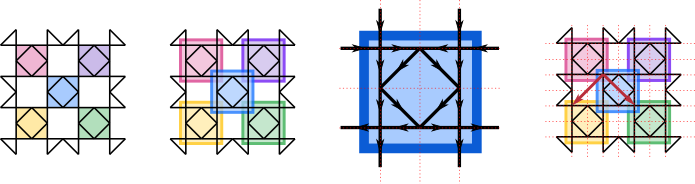
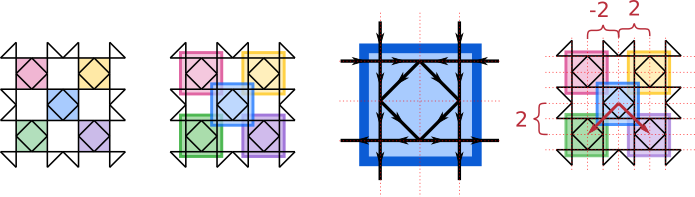
Update documentation

diff --git a/docs/help/Advanced.md b/docs/help/Advanced.md
@@ -1,114 +1,107 @@
 ---
 layout: default
-title: Designing prototypes
+title: New pattern tutorial
 ---
 
-Designing prototypes
+Creating a pattern definition
 ==============
 
 [lace ground page]: /GroundForge/tiles?tile=5831,-4-7&patchWidth=9&patchHeight=9&shiftColsSE=4&shiftRowsSE=2&shiftColsSW=0&shiftRowsSW=2&
 
-+ [Prototype Tutorial](#prototype-tutorial)
++ [New Pattern Tutorial](#new-pattern-tutorial)
    + [Define the base pattern](#define-the-base-pattern)
    + [Glue copies together](#glue-copies-together)
    + [Initialize stitches](#initialize-stitches)
 + [Footside Tutorial](#footside-tutorial)
 + [Thread diagram as pair diagram](#thread-diagram-as-pair-diagram)
 
-On each [lace ground page], below the prototype, pair and thread diagrams, you will find an area labelled _Forms for advanced users_.  These forms are the controls for creating and editing the prototype.
-You can use these controls to modify an existing pattern (add a headside or a footside, for example) or to create a new pattern.
+On each [lace ground page], below the pair and thread diagrams, you will find an area labelled __Edit pattern__.  You can use the controls in this area to modify an existing pattern (add a headside or a footside, for example) or to create a new pattern.
 
-Prototype Tutorial
+New Pattern Tutorial
 ------------------
-We will use Rose ground as an example and define a prototype for it from scratch.
-There are many ways to draw the pair diagram for Rose ground.
-One way to think of it is as a checkerboard with a diamond inside each of the black squares.
+We will use Rose ground as an example and define a pattern for it from scratch.  There are many ways to draw the pair diagram for Rose ground.  One way to think of it is as a checkerboard with a diamond inside each of the black squares.
 
 ### Define the base pattern
-A lace ground consists of a small pattern that is repeated, like a wallpaper or printed fabric pattern, to cover the area you need to fill.
-This small base pattern is called a __repeat__.  The form labelled _Define a repeat_ contains three text boxes.  
-The left and right boxes control the headside and footside.  We will discuss them later.  The middle box controls the repeated pattern.
+A lace ground consists of a small pattern that is repeated, like a wallpaper or printed fabric pattern, to cover the area you need to fill.  This small pattern is called a __base tile__.  The area labelled _Pattern definition_ contains three text boxes.  The left and right boxes define the headside and footside.  We will discuss them later.  The middle box defines the base tile.
 
-From the large pattern, we need to identify the base pattern.  There are many ways to do this and over the course of this tutorial, we will show a few of them.
-In the image below, each rectangle highlights one repeat of the Rose pattern.  The repeating rectangles are arranged like vertical bricks.
-For convenience, on the far right of the image we have moved the rectangles slightly so that it is easy to see all the intersections of pairs within a rectangle (no intersection lies on the edge of a rectangle).
+The first step is to look at a ground and identify the base tile.  There are many ways to do this and over the course of this tutorial, we will show a few of them.
 
-![](images/repeat.png)
+####Simple arrangement
 
-Next we will map the pairs in the lace ground to a grid.  Within one repeat rectangle, the intersections lie on two columns and four rows as shown by the red dashed lines in the figure below.  The red dashed lines form a grid.
+The easiest approach is to start with a printed copy of the pattern. Pick a spot on the pattern and look in the horizontal direction until you find an exact copy of this spot.  Draw a line. Now return to the original spot and look straight down until you find another exact copy of this spot.  Draw a line and complete the rectangle created by these two lines.
 
-![](images/rose-grid-symbols.png)
+![](images/rose-simple.png)
 
-For each position in the grid, we assign a symbol.  The symbol specifies the angle and direction of the two pairs that are pointing at that row/column position.
-The meaning of each symbol is shown in the "Cheat sheet" on the right of the "Define a repeat" area.  For example, in row 1/column 1 the green arrows correspond to the symbol '4'.  Similarly, in row 3/column 2, there is no intersection of pairs which we represent by the symbol '-'.
+Each rectangle highlights one repeat of the Rose pattern.  For convenience, on the right of the image above we have moved the rectangles slightly so that it is easy to see all the intersections of pairs within a rectangle (no intersection lies on the edge of a rectangle).
 
-We can now fill in the middle section of the "Define a repeat" area.
+Next we will map the pairs in the lace ground to a grid.  Draw a grid on top of the base tile on you paper copy as shown by the red dashed lines in the middle image above.  Within one repeat rectangle, the intersections lie on four columns and four rows.
 
-![](images/rose_vertical_brick_definition.png)
+For each position in the grid, we assign a symbol.  The symbol specifies the angle and direction of the two pairs that are coming __in__ to meet at  that row/column position.  The meaning of each symbol is shown in the _Cheat sheet_ just below the _Pattern definition_ area.  For example, in row 1/column 1 the yellow arrows correspond to the symbol '4' which is a pair coming straight down and a pair coming diagonally down pointing south-west.  Similarly, in row 3/column 2, there is no intersection of pairs which we represent by the symbol '-'.
 
-Notice that the prototype diagram is updated to match the symbols as soon as you click outside of the box.
+We can now fill in the middle section of the _Pattern definition_ area.  Notice that the pattern diagram updates to match the symbols as soon as you click outside of the text box.
+
+![](images/rose-simple-arrange.png)
 
 ### Glue copies together
 
-Now that the base pattern is defined, we need to specify how to connect copies of this pattern together.  This is done in the area labelled _Arrange the repeats_.
+Now we need to specify how to connect the many copies of this pattern together.  This is done in the area labelled _Tile layout_.  For a simple arrangement, just click on the solid blue square in the drawing of a simple tiling as shown in the figure below.  
 
-Consider several meters of a lace edging.  The pattern for the edging is not several meters long.  It is a smaller pattern that you repeat over and over again by sliding the pattern along in one direction.  This gives a long strip.  To make a large rectangular patch from a small pattern, we need to slide the pattern in two directions.
+Notice that this changes the numbers in the green and purple boxes at the bottom of the _Tile layout_ area.  Let's discuss what these numbers mean.  Consider several meters of a lace edging.  The pattern for the edging is not several meters long.  It is a smaller pattern that you repeat over and over again by sliding the pattern along in one direction.  This gives a long strip.  To make a larger rectangular sample from a small pattern, we need to slide the pattern in two directions.
 
 Consider the image below. Red dashed lines show the grid overlaid on the pattern.
 
 ![](images/rose-translation-vectors.png)
 
-To position the blue rectangle on top of the yellow rectangle, we must slide the blue rectangle down 4 rows.
-To position the blue rectangle on top of the red rectangle, we must slide it over 2 columns and down 2 rows.  These translations are entered in the configuration information below.
+To position the blue rectangle on top of the green rectangle, we must slide the blue rectangle down 4 rows.
+To position the blue rectangle on top of the purple rectangle, we must slide it right 4 columns and down 4 rows.  These translations distances are the numbers that appear in the green and purple boxes.  You can also edit these slide moves directly in the number fields.
 
-![](images/rose_vertical_brick_arrange.png) 
+[Final result](/GroundForge/docs/tiles.html?patchWidth=7&patchHeight=7&c1=ctct&a1=ctct&d2=ctct&c2=ctct&b2=ctct&a2=ctct&c3=ctct&a3=ctct&d4=ctct&c4=ctct&b4=ctct&a4=ctct&tile=4-7-,1583,7-4-,8315&footsideStitch=ctctt&tileStitch=ctct&headsideStitch=ctctt&shiftColsSW=0&shiftRowsSW=4&shiftColsSE=4&shiftRowsSE=4)
 
-If you are more comfortable with visual tools, we have also provided images that you can click on.
-For a vertical brick pattern like our Rose ground example, first click on the filled blue brick in the picture of vertical bricks:
+### Creating a smaller base tile
 
-![](images/vertical-bricks.png)
+You might have noticed that in the simple tile arrangement, we actually have two "roses" in the base tile.  We will now look at two ways to reduce the number of intersections in the base tile. 
 
-If the prototype pattern does not immediately align correctly, click on the black arrows above and below the second column of bricks to adjust how the two columns of bricks align.  
-Each click will move the second column up or down by one row relative to the first column.  Look at the prototype diagram to see how the copies move around.
+#### Brick arrangement
+
+For some patterns, as shown for rose ground in the image below, the repeating rectangles can be arranged like vertical bricks.  Notice that each brick contains only one "rose".
+
+![](images/rose_vertical_brick.png) 
+
+For a vertical brick pattern first identify one brick and label each intersection with a symbol from the cheat sheet as we did for the simple tile.  To glue the copies together to make a larger pattern, first click on the filled blue brick in the picture of vertical bricks: ![](images/vertical-bricks.png)
+
+If the pattern does not immediately align correctly, click on the black arrows above and below the second column of bricks to adjust how the two columns of bricks align.  Each click will move the second column up or down by one row relative to the first column.  Look at the pattern diagram to see how the copies move around.
 
 [Final result](/GroundForge/tiles?patchWidth=13&patchHeight=10&a1=ctct&b2=ctct&a2=ct&a3=ctct&b4=ctct&a4=ct&tile=4-,15,7-,83,,&footsideStitch=ctctt&tileStitch=ctct&headsideStitch=ctctt&shiftColsSW=0&shiftRowsSW=4&shiftColsSE=2&shiftRowsSE=2)
 
-### Another Rose ground example
-There is more than one way to choose the base pattern.  
-Starting from scratch again, we will think about Rose ground as a checkerboard pattern of repeated squares.
-In the figure below, the coloured squares each contain one copy of the pattern.  
+### Overlap arrangement
+When a large part of the pattern is a hole, we can further decrease the size of the base tile using overlap.  In this case, the base tile does not include the hole.  In the figure below, the coloured squares each contain one copy of the pattern.  
 
 ![](images/rose-checker-arrange.png)
 
-Again we want to make sure that none of the line intersections are on the edge of the base pattern.  This time we make the base pattern a little bit larger, as shown in the second drawing from the left, to encompass any intersections along its border.  Notice that the squares overlap a little bit.
+For the overlap layout, make the base pattern a little bit larger, as shown in the second drawing from the left, to encompass any intersections along its border.  Notice that the squares overlap a little bit.
 
-As before, we apply a grid to the base pattern and assign symbols to each line intersection.  This time we have three rows and three columns in the base pattern.
-Finally, we arrange the copies.  To slide the blue square over the yellow square, we must move it down 2 rows and left 2 columns.  To slide the blue square over the green square, we must move it right 2 columns and down 2 rows.  Note: The pattern has three rows and three columns but the squares overlap in the corner, hence the slides are only a distance of two.
+Apply a grid to the base pattern and assign symbols to each line intersection.  This time we have three rows and three columns in the base pattern. 
 
 ![](images/rose-checker-define-repeat.png) 
 
-You can enter these slide moves directly into the Configuration area.
-If you are more comfortable with visual tools, click on the filled blue block in the image of a checkerboard:
-
-![](images/overlapping-checkers.png)
-
+Finally, we arrange the copies.  Click on the filled blue block in the image of a checkerboard: ![](images/overlapping-checkers.png)
 Initially, the copies will be placed corner to corner.  Click on the black arrows around the green and purple blocks to nudge the copies so that they overlap as desired.
 
 [Final result](/GroundForge/tiles?patchWidth=12&patchHeight=12&c1=ctct&b1=ctct&a1=ctct&c2=ctct&a2=ctct&c3=ctct&b3=ctct&a3=ctct&tile=831,4-7,158&footsideStitch=ctctt&tileStitch=ctct&headsideStitch=ctctt&shiftColsSW=-2&shiftRowsSW=2&shiftColsSE=2&shiftRowsSE=2)
 
 ### Initialize stitches
 
-For convenience, you can set all stitches in the pattern to the same value.  In the "Define a repeat" area, just below the middle box where you typed symbols for the prototype, there is a small text box.  Enter a stitch as a sequence of 'c', 't', 'r' or 'l' (for example, 'cttct').  Click on the "initialize stitches button" and then on the ![wand](../images/wand.png) image above the prototype diagram to regenerate the thread and pair diagrams.  This is a quick way to see how a ground looks in cloth-stitch, half-stitch or whole-stitch.  Once initialized, you can change the stitches used for individual intersections by editing the prototype diagram.  Each time you click on "initialize stitches button", the values in the prototype are reset.
+For convenience, you can set all stitches in the pattern to the same value.  In the _Edit pattern_ area, just below the middle box where you typed symbols for the pattern, there is a small text box.  Enter a stitch as a sequence of 'c', 't', 'r' or 'l' (for example, 'cttct').  Click on the "initialize stitches button" and then on the ![wand](../images/wand.png) image above the pattern diagram to regenerate the thread and pair diagrams.  This is a quick way to see how a ground looks in cloth-stitch, half-stitch or whole-stitch.  Once initialized, you can change the stitches used for individual intersections by clicking on the symbols in the pattern diagram.  Each time you click on the "initialize stitches button", the stitch values in the pattern are reset.
 
 Footside Tutorial
 -----------------
-In the "Define a repeat" section, the central panel defines the ground, and the left and right side panels define the left and right footsides.
+In the _Edit pattern_ section, the central panel defines the ground, and the left and right side panels define the left and right footsides.
 
 ![](images/definition_labels.png)
 
 The leftmost edge of the central patch is determined by the leftmost column in the ground definition.  If you want to change where the patch starts on the left, you must choose a different starting point for the base pattern and modify the ground definition accordingly.
 
-The rightmost edge of the patch depends on the number of columns specified in the "Patch size".  If you change the number of columns in the patch size, the right footside may no longer match correctly.  Note that the number of columns required for the footsides are not included in the "Patch size".  They are added on top of the width that you specify.
+The rightmost edge of the patch depends on the number of columns specified in the "Swatch size".  If you change the number of columns in the patch size, the right footside may no longer match correctly.  Note that the number of columns required for the footsides are not included in the "Swatch size".  They are added on top of the width that you specify.
 
 First, we will consider the simple example of Torchon Ground.  Lay a square grid over the pair diagram. We must identify the loose ends of pairs along the edge and match them up where possible. To do this, we can use a "kissing path". A kissing path follows one set of pairs through the pair diagram.  When two pairs intersect, the kissing path does not cross over to the other side, it just touches the other pair ("kisses") and continues.  You can think of it as the path that a pair of threads follows if a turning stitch (cttct) is used at each intersection.  The yellow and blue thick lines in the figure below highlight the kissing paths for the pairs at the edge of the pair diagram. Note that several incoming edges are missing on the yellow kissing path (dashed red lines).  We can add them by labelling the incoming pair intersections using the symbols 'W', 'Y' and '-' in the Cheat Sheet:
 
@@ -127,7 +120,7 @@ Now consider the more complicated example of [G-4] in the Whiting sampler.  We f
 
 ![](images/complex-footside.png)
 
-Below is [G-4 with left footside].  Notice the red box around "V,6" in the ground area of the prototype.  In the original definition, this was "-,L" which draws a long horizontal edge.  The long horizontal edge sticks out on the left side of the patch.  We can get a better looking footside by shortening this edge.  In order to get a short edge on the left side of the patch, we changed the ground definition to use two short horizontal edges in a row ("V,6") instead of one long edge ("-,L").  The symbols "V,6" and "-,L" give the same result in the thread diagram.  On the footside, we can cut the ground pattern off at "6" which gives a nicer looking result (see red box around "C,6", the "C" intersection is part of the footside.  The "6" intersection is part of the ground).  As an exercise, create the right footside.
+Below is [G-4 with left footside].  Notice the red box around "V,6" in the ground area of the pattern diagram.  In the original definition, this was "-,L" which draws a long horizontal edge.  The long horizontal edge sticks out on the left side of the patch.  We can get a better looking footside by shortening this edge.  In order to get a short edge on the left side of the patch, we changed the ground definition to use two short horizontal edges in a row ("V,6") instead of one long edge ("-,L").  The symbols "V,6" and "-,L" give the same result in the thread diagram.  On the footside, we can cut the ground pattern off at "6" which gives a nicer looking result (see red box around "C,6", the "C" intersection is part of the footside.  The "6" intersection is part of the ground).  As an exercise, create the right footside.
 
 ![](images/complex-footside-definition.png)
 
@@ -147,17 +140,17 @@ In a typical pair diagram, two pairs intersect at each crossing and then continu
 
 ![](images/simple-droste.png)
 
-To apply this technique in GroundForge, click on the ![wand](../images/wand.png) image under the "Reuse thread diagram as pair diagram" heading. 
+To apply this technique in GroundForge, click on the ![wand](../images/wand.png) image beside "First level" under the _Thread diagram as pair diagram_ heading. 
  
 ![](images/reuse.png)
 
 There are several options for specifying which stitches appear in the new thread diagram.
 
-By default, every stitch is `ctc`.  You can assign a new default stitch by typing the actions (such as `ct`) in the input box that appears to the left of the new pair diagram. You can also assign a stitch to every "cross" in the original thread diagram by typing `cross=...` (for example, `cross=ctcll`) in the input box.  Similarly, you assign a stitch to every "twist" in the original thread diagram using `twist=...`.  For finer control, you can specify a stitch for a specific intersection.  First find the identity of the intersection in the new pair diagram (hover over the intersection until the id appears), then give it a new value in the input box such as `b10=clcl`.  You can combine any of these options in the input box.  Use a new line or a comma to separate each instruction. After editing the stitches in the input box, click on the ![wand](../images/wand.png) image **above** the pair diagram.
+By default, every stitch is `ctc`.  You can assign a new default stitch by typing the actions (such as `ct`) in the input box that appears to the left of the new pair diagram. You can also assign a stitch to every "cross" in the original thread diagram by typing `cross=...` (for example, `cross=ctcll`) in the input box.  Similarly, you assign a stitch to every "twist" in the original thread diagram using `twist=...`.  For finer control, you can specify a stitch for a specific intersection.  First find the identity of the intersection in the new pair diagram (hover over the intersection until the id appears), then give it a new value in the input box such as `b10=clcl`.  You can combine any of these options in the input box.  Use a new line or a comma to separate each instruction. After editing the stitches in the input box, click on the ![wand](../images/wand.png) image beside "First level" under the _Thread diagram as pair diagram_ heading. 
 
 ![](images/droste-assign-stitches.png)
 
-To repeat this process a second time, click on the ![wand](../images/wand.png) image **below** the new pair diagram.  This will create a second new thread diagram by using the thread diagram above the wand as a pair diagram.
+To repeat this process a second time, click on the ![wand](../images/wand.png) image beside "Second level" under the _Thread diagram as pair diagram_ heading.   This will create another new thread diagram by using the thread diagram from the first level as a pair diagram.
 
 ![](images/droste-repeat-assign-stitches.png)
 
